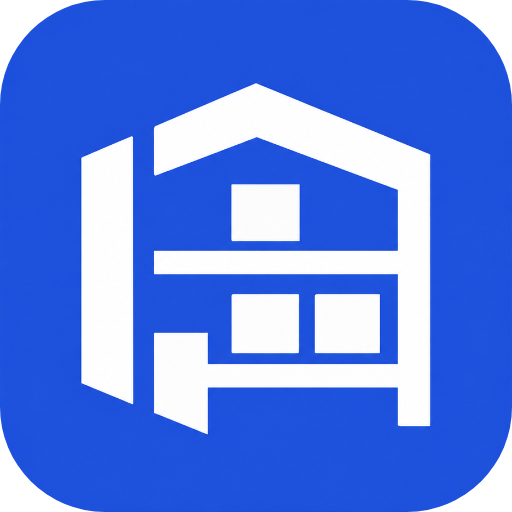
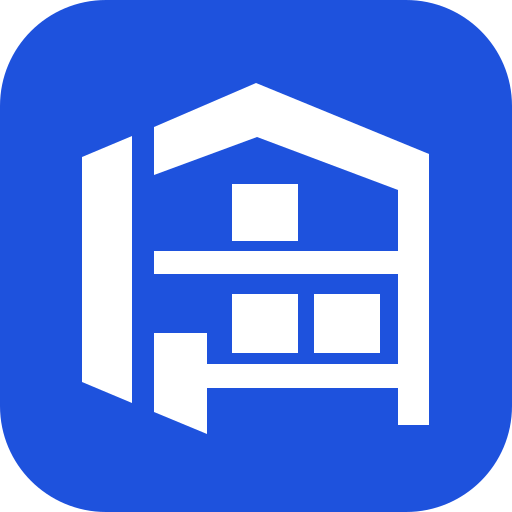
feat: marca em vetor, com o nome SICEI em texto
- Ícone redesenhado em SVG a partir do original de 512 px: nítido em
  qualquer tamanho e densidade de tela; também vira o ícone da aba
  (app/icon.svg) e gera o apple-icon de 180 px
- Nome SICEI escrito na fonte da interface (Geist 800), na cor do tema,
  alinhado ao centro do ícone junto com a licenciada; sai a imagem
  recortada do nome nos dois temas e a logo do painel do login
- Teste da marca (nome em texto, ícone decorativo); doc 03 v1.9

Claude-Session: https://claude.ai/code/session_01CFATm7xAszw7ghQQZmGpWN

diff --git a/src/components/Marca.tsx b/src/components/Marca.tsx
@@ -1,35 +1,20 @@
-import Image from 'next/image'
+import { IconeSicei } from './SimboloSicei'
 
-/** Ícone + nome "SICEI" (a imagem do nome troca conforme o tema) e, embaixo, a licenciada. */
+/**
+ * Ícone + nome "SICEI" escrito na fonte da interface (Geist), e embaixo a licenciada.
+ * O nome é texto de verdade: nítido em qualquer tela e com a cor do tema.
+ */
 export function Marca({ licenciada }: { licenciada?: string | null }) {
   return (
     <span className="flex items-center gap-2.5">
-      <Image
-        src="/brand/sicei-icon.png"
-        alt=""
-        width={32}
-        height={32}
-        className="size-8 rounded-lg"
-        priority
-      />
-      <span className="flex min-w-0 flex-col gap-0.5">
-        <Image
-          src="/brand/sicei-wordmark-escuro.png"
-          alt="SICEI"
-          width={50}
-          height={14}
-          className="h-3.5 w-auto escuro:hidden"
-          priority
-        />
-        <Image
-          src="/brand/sicei-wordmark-claro.png"
-          alt="SICEI"
-          width={47}
-          height={14}
-          className="hidden h-3.5 w-auto escuro:block"
-          priority
-        />
-        {licenciada && <span className="truncate text-xs text-ink-3">{licenciada}</span>}
+      <IconeSicei className="size-8 shrink-0" />
+      <span className="flex min-w-0 flex-col justify-center gap-1">
+        <span className="text-[17px] leading-none font-extrabold tracking-[0.02em] text-ink">
+          SICEI
+        </span>
+        {licenciada && (
+          <span className="truncate text-xs leading-none text-ink-3">{licenciada}</span>
+        )}
       </span>
     </span>
   )

diff --git a/src/components/componentes.test.tsx b/src/components/componentes.test.tsx
@@ -3,6 +3,7 @@ import { cleanup, render, screen } from '@testing-library/react'
 import userEvent from '@testing-library/user-event'
 import { afterEach, describe, expect, it } from 'vitest'
 import { BotaoEnviar, Campo, CampoSenha, DadosDaAcao, FormAcao, Selecao } from './formulario'
+import { Marca } from './Marca'
 import { Paginacao } from './Paginacao'
 import { Rodape } from './Rodape'
 import { Aviso, BadgeStatus, rotulosDoNivel, Vazio } from './ui'
@@ -137,6 +138,22 @@ describe('Formulários ligados a Server Actions', () => {
     expect(screen.getByLabelText('Quantidade A').id).not.toBe(
       screen.getByLabelText('Quantidade B').id,
     )
+  })
+})
+
+describe('Marca · Ícone em vetor e nome em texto', () => {
+  it('o nome SICEI é texto (não imagem) e a licenciada aparece embaixo', () => {
+    const { container } = render(<Marca licenciada="DDA Metalúrgica" />)
+    expect(screen.getByText('SICEI')).toBeInTheDocument()
+    expect(screen.getByText('DDA Metalúrgica')).toBeInTheDocument()
+    expect(container.querySelector('img')).toBeNull()
+    // o ícone é SVG decorativo: leitor de tela lê só o nome
+    expect(container.querySelector('svg')).toHaveAttribute('aria-hidden', 'true')
+  })
+  it('sem licenciada, só o nome', () => {
+    render(<Marca />)
+    expect(screen.getByText('SICEI')).toBeInTheDocument()
+    expect(screen.queryByText('DDA Metalúrgica')).not.toBeInTheDocument()
   })
 })
 

diff --git a/src/components/SimboloSicei.tsx b/src/components/SimboloSicei.tsx
@@ -1,0 +1,30 @@
+/*
+ * Símbolo do SICEI em vetor: o almoxarifado com gavetas, redesenhado a partir do ícone
+ * original (512 px). Por ser SVG, fica nítido em qualquer tamanho e densidade de tela.
+ */
+
+/** Formas brancas do símbolo, no espaço de 512 × 512 do ícone. */
+export const CAMINHO_DO_SIMBOLO =
+  'M82 157 132 136V403L82 382ZM154 127 256 83 429 154V425H398V190L257 137 154 175ZM232 184H298V241H232ZM154 251H429V274H154ZM232 294H298V353H232ZM314 294H380V353H314ZM154 364H429V388H154ZM154 333H207V434L154 412Z'
+
+/** Azul do ícone. */
+export const AZUL_DO_ICONE = '#1E52DD'
+
+/** Ícone do app: quadrado azul de cantos arredondados com o símbolo branco. */
+export function IconeSicei({ className }: { className?: string }) {
+  return (
+    <svg viewBox="0 0 512 512" aria-hidden className={className}>
+      <rect width="512" height="512" rx="106" fill={AZUL_DO_ICONE} />
+      <path d={CAMINHO_DO_SIMBOLO} fill="#fff" />
+    </svg>
+  )
+}
+
+/** Só o símbolo, sem o fundo, na cor do texto (`currentColor`). */
+export function SimboloSicei({ className }: { className?: string }) {
+  return (
+    <svg viewBox="82 83 347 351" aria-hidden className={className} fill="currentColor">
+      <path d={CAMINHO_DO_SIMBOLO} />
+    </svg>
+  )
+}

diff --git a/src/components/TelaDeAcesso.tsx b/src/components/TelaDeAcesso.tsx
@@ -1,4 +1,4 @@
-import Image from 'next/image'
+import { SimboloSicei } from './SimboloSicei'
 import type { ReactNode } from 'react'
 import { anosDeDireitos, licenciada, PRODUTO } from '@/lib/produto'
 import { Marca } from './Marca'
@@ -33,14 +33,10 @@ export function TelaDeAcesso({ children }: { children: ReactNode }) {
           backgroundSize: '56px 40px',
         }}
       >
-        <Image
-          src="/brand/sicei-logo-escuro-2.png"
-          alt=""
-          width={575}
-          height={169}
-          className="h-14 w-auto self-start"
-          priority
-        />
+        <span className="flex items-center gap-4 self-start">
+          <SimboloSicei className="h-14 w-auto text-[#3d6bff]" />
+          <span className="text-[44px] leading-none font-extrabold tracking-[0.02em]">SICEI</span>
+        </span>
         <div className="max-w-[460px]">
           <p className="font-mono text-xs tracking-wide text-[#8fb0ff]">A01-G03-C04 · PT-0012</p>
           <p className="mt-3 text-[34px] leading-[1.15] font-semibold tracking-tight">

diff --git a/src/proxy.ts b/src/proxy.ts
@@ -61,7 +61,8 @@ export const config = {
   matcher: [
     {
       // fora: arquivos estáticos do Next, ícones, imagens da marca e o relatório estático do Vitest
-      source: '/((?!_next/static|_next/image|favicon.ico|icon.png|brand/|relatorio-testes).*)',
+      source:
+        '/((?!_next/static|_next/image|favicon.ico|icon.svg|apple-icon.png|brand/|relatorio-testes).*)',
       missing: [
         { type: 'header', key: 'next-router-prefetch' },
         { type: 'header', key: 'purpose', value: 'prefetch' },

diff --git a/docs/03-system-design.md b/docs/03-system-design.md
@@ -464,6 +464,7 @@ O tema escolhido fica no cookie `sicei_tema`. O layout raiz lê o cookie no serv
 |---|---|---|
 | Moldura do sistema | `components/shell/Shell.tsx` | Menu lateral de 252 px com os grupos do perfil (`shell/menu.ts`), topo com trilha, busca (atalho `/`), alertas e "Registrar saída". No celular, menu em gaveta e barra inferior Painel / Itens / Ler QR / Alertas. |
 | Tela de acesso | `components/TelaDeAcesso.tsx` | Login, troca de senha, página inicial e "Acesso negado": formulário à esquerda e painel da marca à direita (some abaixo de 1040 px). |
+| Marca | `components/Marca.tsx`, `components/SimboloSicei.tsx` | Ícone em SVG (redesenhado em vetor a partir do ícone original de 512 px, nítido em qualquer tamanho) e o nome "SICEI" escrito em texto na fonte da interface (Geist, peso 800), na cor do tema. O mesmo SVG é o ícone da aba (`app/icon.svg`); o `app/apple-icon.png` de 180 px é gerado dele. |
 | Componentes | `components/ui.tsx`, `components/formulario.tsx` | Página, cartão, tabela, selos, avisos, botões, abas, gauge de nível, campos (com unidade, senha com mostrar/esconder, escolha em botões), toast de sucesso. |
 
 Os pontos de quebra usam rem (`min-[65rem]` = 1040 px, `min-[75rem]` = 1200 px, `min-[100rem]` = 1600 px), para respeitar o zoom do navegador.
@@ -524,3 +525,4 @@ Várias telas mostram o resultado antes de enviar, usando as mesmas funções pu
 | 1.6 | 27/09/2026 | Seção 10.4: o pop-up de alertas não volta depois de VER, nem pela navegação do menu. |
 | 1.7 | 27/09/2026 | Busca tolerante de itens (`domain/busca.ts`) no navegador e no servidor, e autocompletar ao registrar (10.4). |
 | 1.8 | 27/09/2026 | A mesma busca em todos os campos que permitem (nova 10.5; a prévia passa a 10.6): campos de escolha com busca, sugestões no topo, filtros de texto tolerantes, posição digitada de qualquer jeito, código equivalente e padronizado no cadastro e na importação. |
+| 1.9 | 27/09/2026 | Marca em vetor: ícone em SVG e o nome SICEI em texto, no lugar das imagens recortadas (10.2). |

diff --git a/README.md b/README.md
@@ -31,7 +31,7 @@ Next.js 16 com React 19 e TypeScript, PostgreSQL 17 com Prisma 7, Tailwind 4 e Z
 
 | Tipo | Quantidade | O que cobre |
 |---|---|---|
-| Unitários | 651 | Regras de negócio, validações, telas e componentes (99% das linhas) |
+| Unitários | 653 | Regras de negócio, validações, telas e componentes (99% das linhas) |
 | Integração | 80 | Serviços contra PostgreSQL real: concorrência, estorno, triggers, permissões, cadeia de hash, filtros de busca |
 | Ponta a ponta | 20 | Fluxos no navegador, no celular (360 px) e no computador (1366 px): troca de senha, leitura do QR pela câmera, saída pela etiqueta, estorno, usuários, compra com fornecedor novo, parâmetros, importação, CSV |
 
@@ -65,7 +65,7 @@ Cada empresa que licencia o SICEI recebe uma instalação separada, sem nada em 
 |---|---|---|
 | 01 | [Regras de negócio](docs/01-regras-de-negocio.md) | 1.5 |
 | 02 | [Requisitos](docs/02-requisitos.md) | 1.8 |
-| 03 | [System design e stack](docs/03-system-design.md) | 1.8 |
+| 03 | [System design e stack](docs/03-system-design.md) | 1.9 |
 | 04 | [Segurança](docs/04-seguranca.md) | 1.4 |
 | 05 | [Plano de testes e QA](docs/05-plano-de-testes.md) | 1.5 |
 | 06 | [Operação](docs/06-operacao.md) | 1.0 |
